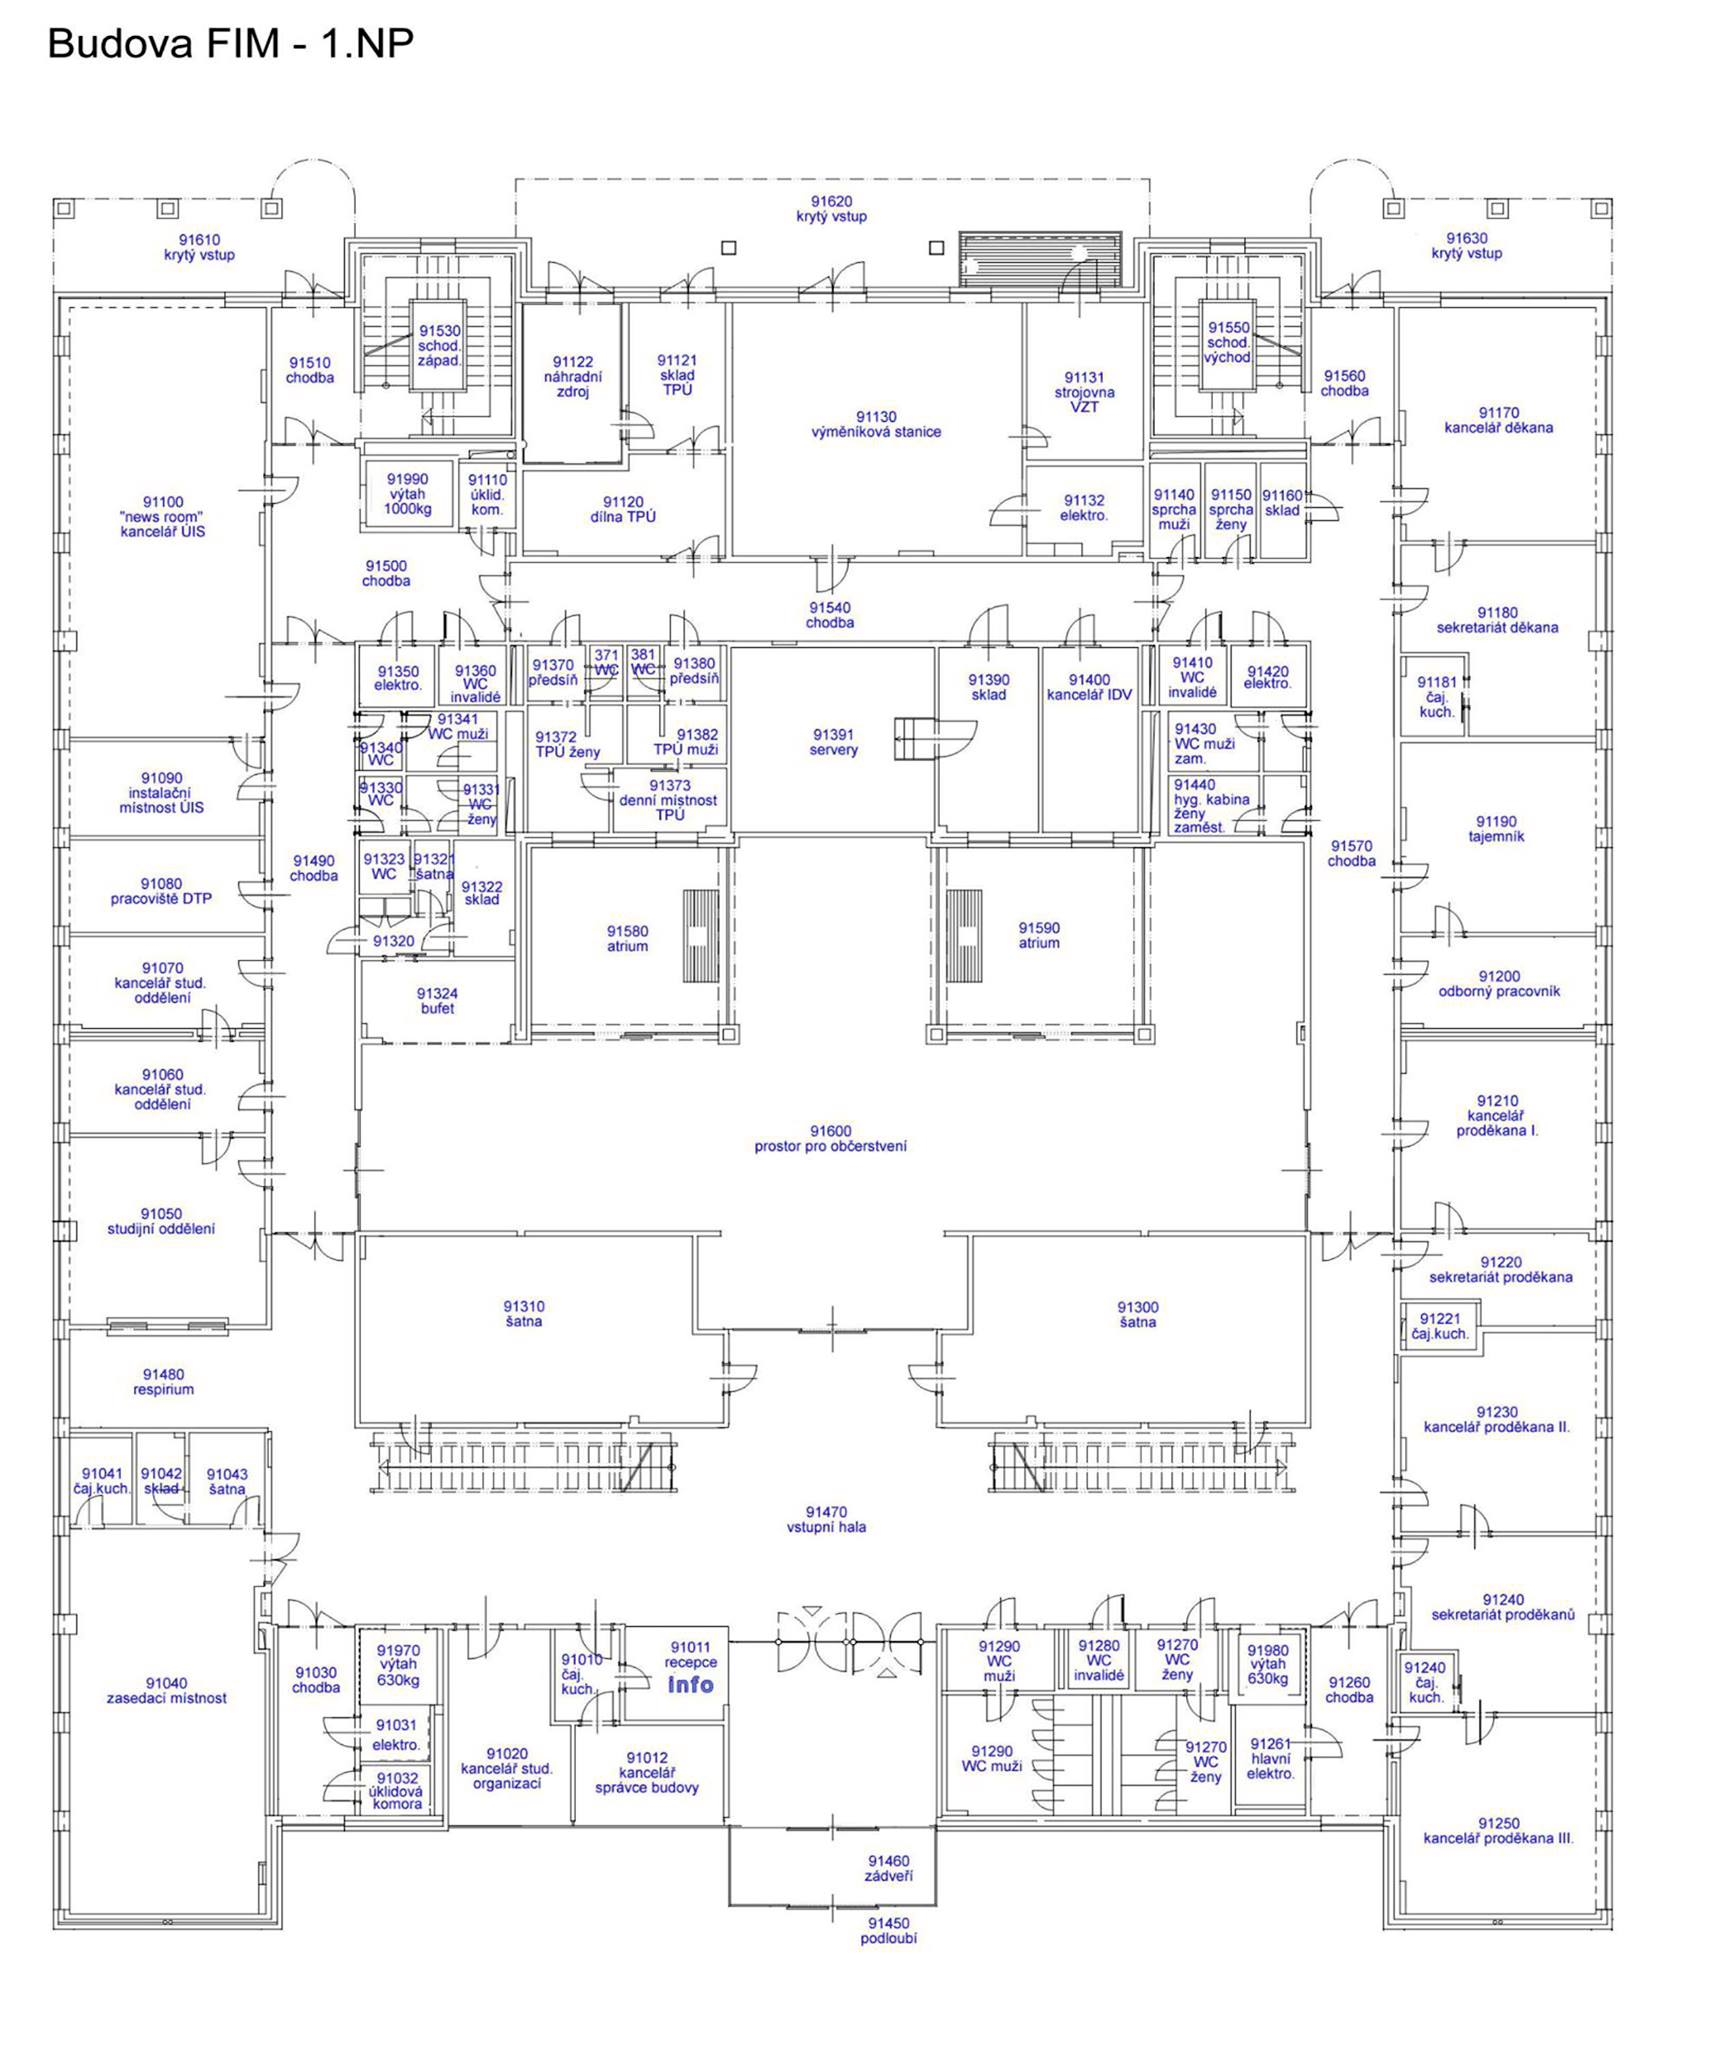
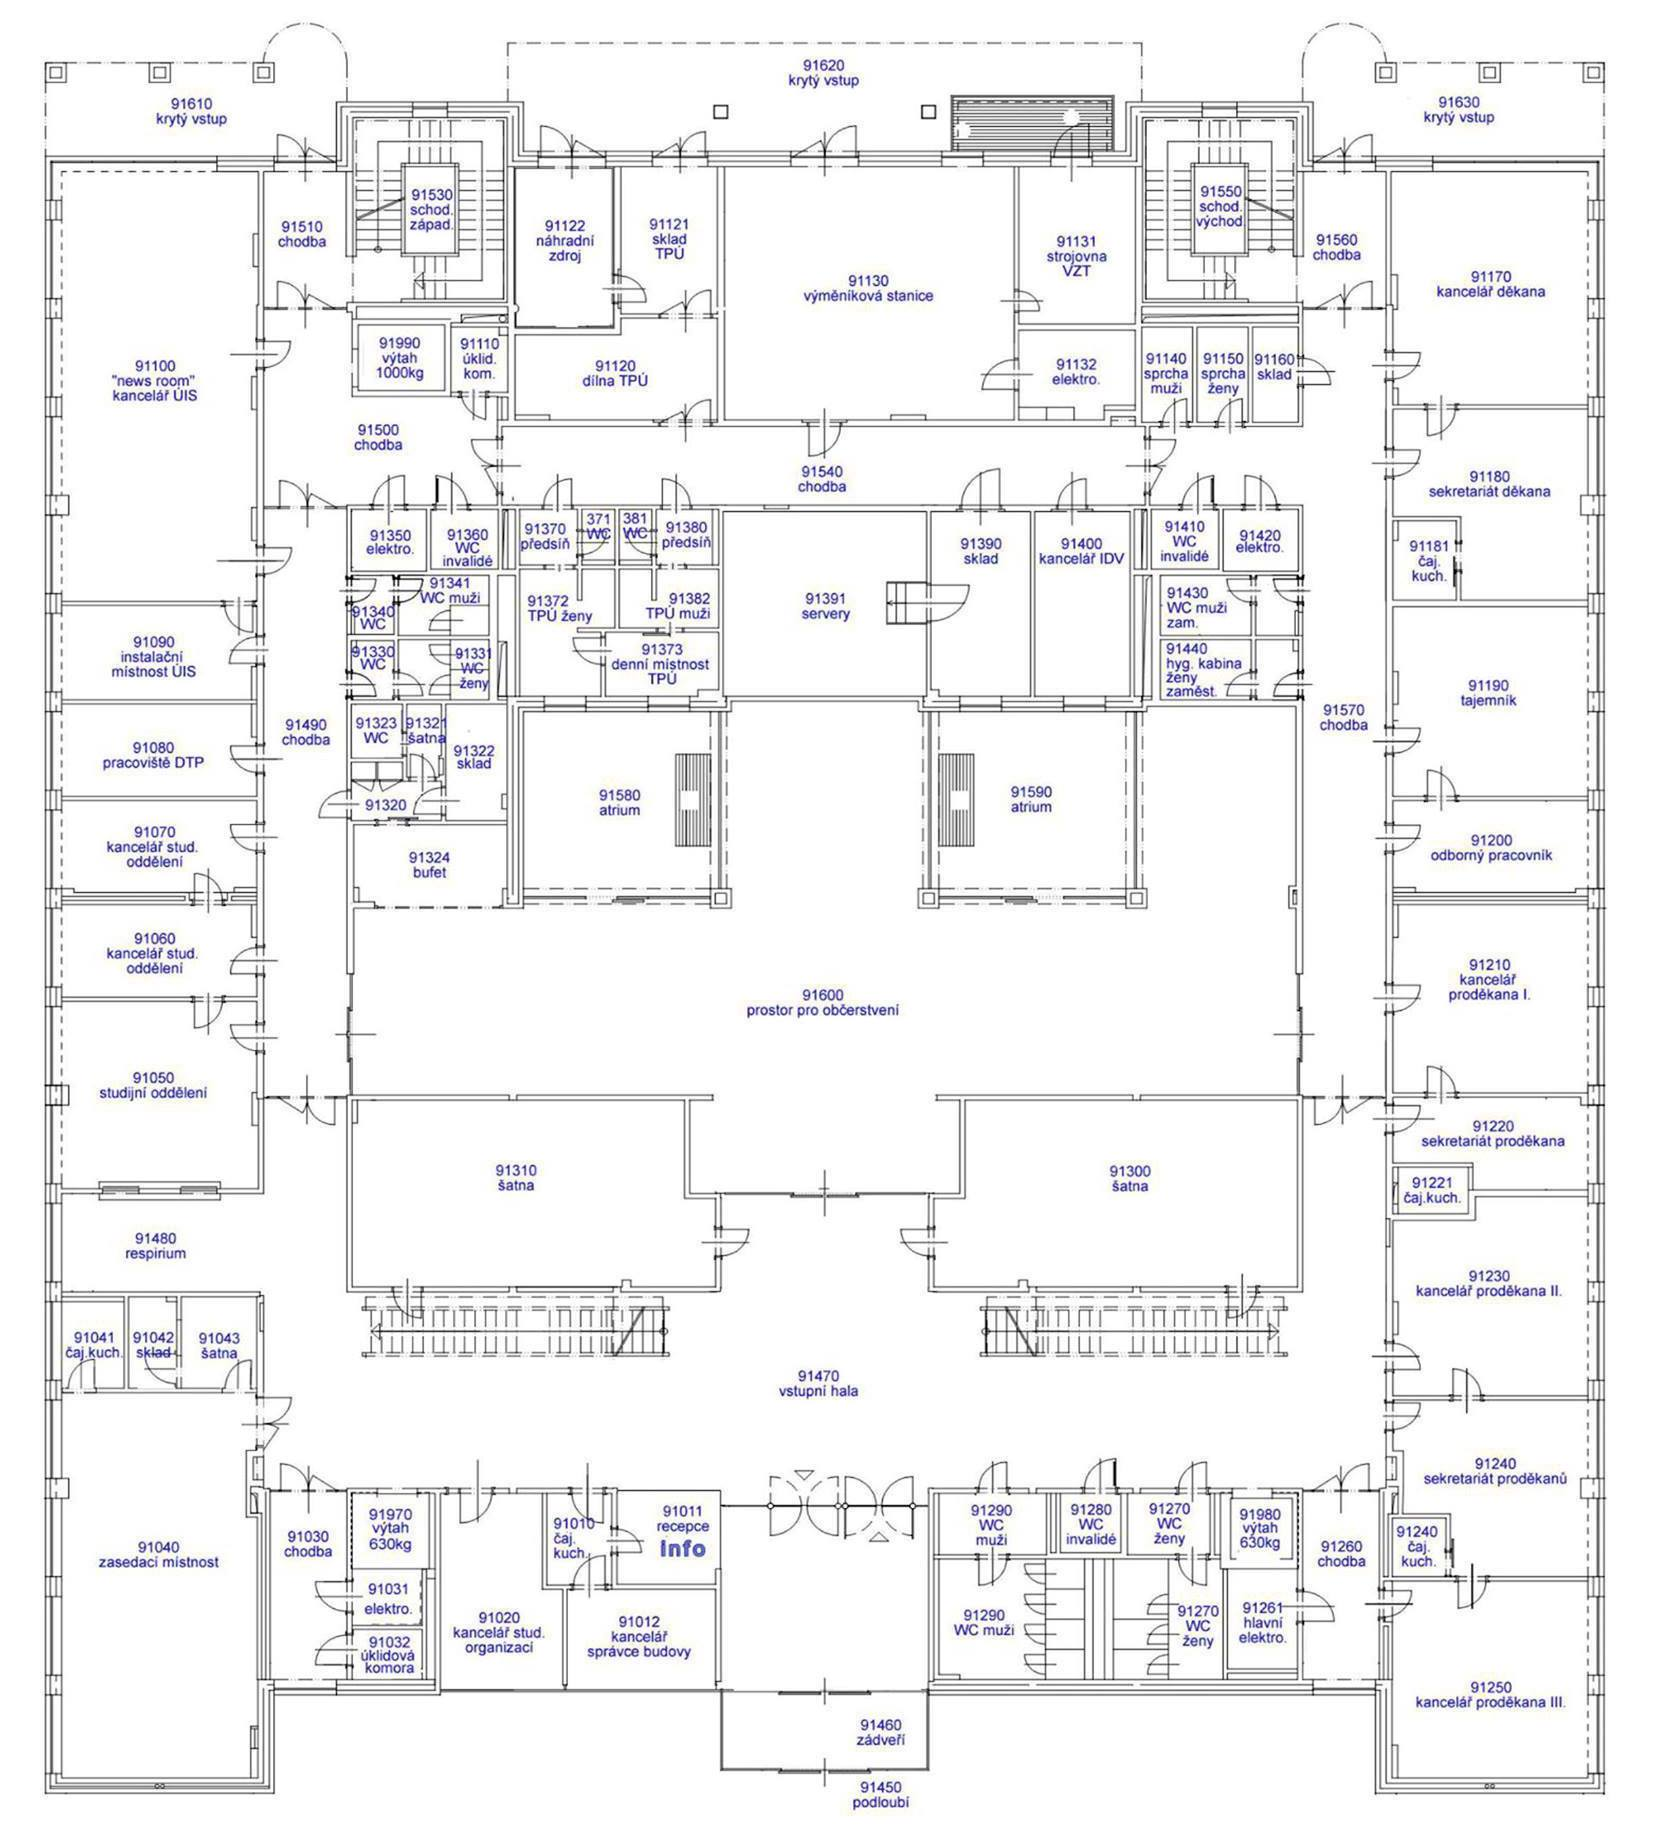
Added fragments, drawing into canvas

Changed region(s): [[0.0307, 0.0, 0.9831, 0.987], [0.4301, 0.5244, 0.5223, 0.586], [0.9524, 0.0308, 0.9831, 0.0617]]

diff --git a/src/main/webapp/templates/fragments/header.html b/src/main/webapp/templates/fragments/header.html
@@ -2,44 +2,36 @@
 <html lang="cs" xml:lang="cs" xmlns="http://www.w3.org/1999/xhtml" xmlns:th="http://www.thymeleaf.org"
       xmlns:sec="http://www.w3.org/1999/xhtml">
 
-<head>
+<head th:fragment="head">
     <meta http-equiv="Content-Type" content="text/html; charset=utf-8" />
     <script src="https://ajax.googleapis.com/ajax/libs/jquery/1.11.3/jquery.min.js"></script>
 	<link rel="stylesheet" href="../resources/bootstrap/css/bootstrap.min.css"
-		th:href="@{resources/bootstrap/css/bootstrap.min.css}"/>
+		th:href="@{/resources/bootstrap/css/bootstrap.min.css}"/>
 	<link rel="stylesheet" href="../resources/bootstrap/css/bootstrap-theme.min.css"
-		  th:href="@{resources/bootstrap/css/bootstrap-theme.min.css}"/>
+		  th:href="@{/resources/bootstrap/css/bootstrap-theme.min.css}"/>
 	<link rel="stylesheet" href="../resources/style.css"
-		  th:href="@{resources/style.css}"/>
+		  th:href="@{/resources/style.css}"/>
 	<script src="../resources/bootstrap/js/bootstrap.min.js"
-			th:src="@{resources/bootstrap/js/bootstrap.min.js}"></script>
-
-    <title th:text="#{login.header}">Přihlášení</title>
+			th:src="@{/resources/bootstrap/js/bootstrap.min.js}"></script>
     <meta name="viewport" content="width=device-width, initial-scale=1"/>
 </head>
-<th:block th:fragment="header">
+<th:block th:fragment="header(title)">
 	<nav class="navbar navbar-default navbar-fixed-top" role="navigation">
         <div class="container">
-            <div class="navbar-header">
-                <button type="button" class="navbar-toggle" data-toggle="collapse" data-target="#bs-example-navbar-collapse-1">
-                    <span class="sr-only">Toggle navigation</span>
-                    <span class="icon-bar"></span>
-                    <span class="icon-bar"></span>
-                    <span class="icon-bar"></span>
-                </button>
-                <a class="navbar-brand" href="home.html" th:href="@{/home}"><img src="/resources/img/logo.png" th:src="@{/resources/img/logo.png}" /></a>
+            <div class="navbar-header header">
+            	<h1 th:text="${title}">Nadpis</h1>
             </div>
-            <!-- Collect the nav links, forms, and other content for toggling -->
-            <div class="collapse navbar-collapse" id="bs-example-navbar-collapse-1">
+            <div>
                 <ul class="nav navbar-nav navbar-right RobotoBoldUP">
-                    <li sec:authorize="isAnonymous()">
-                        <a th:href="@{/login}"><i class="fa fa-user"></i>&nbsp;<span th:text="#{login}"></span></a>
-                    </li>
+                	<li sec:authorize="hasRole('ROLE_ADMIN')">
+						<a th:href="@{/administration}" th:text="#{administration.header}">Administrace</a>                	
+                	</li>
                     <li sec:authorize="isAuthenticated()">
-                        <a th:href="@{/logoutProcess}"><i class="fa fa-times"></i>&nbsp;<span th:text="#{logout}"></span></a>
+                        <a th:href="@{/logoutProcess}" th:text="#{login.logout}">Odhlásit</a>
                     </li>
                 </ul>
             </div>
         </div>
     </nav>
 </th:block>
+</html>

diff --git a/src/main/webapp/resources/js/drawing.js b/src/main/webapp/resources/js/drawing.js
@@ -1,3 +1,25 @@
+var canvas, context;
+
+function drawMap(){
+	canvas = document.getElementById("map");
+	ch = canvas.getAttribute("height");
+	cw = canvas.getAttribute("width");
+	
+	context = canvas.getContext("2d");
+	img = document.getElementById("imgsrc");
+	ih = img.getAttribute("height");
+	iw = img.getAttribute("width");
+	
+//	context.drawImage(img, 0, 0, cw, ch, 0, 0, iw, ih);
+	context.drawImage(img, 0, 0);
+	
+//	baseImage = new Image(500, 500);
+//	baseImage.src = "resources/img/J1NP.jpg";
+//	baseImage.onload = function(){
+//		context.drawImage(baseImage, 500, 500);
+//	};
+};
+
 //window.onload = function () {
 //	var map = document.getElementById("map");
 //	map.setAttribute('height', 500);
@@ -19,30 +41,30 @@
 //	ctx.fill();
 //}
 
-jQuery(document).ready(function() {
-  $('#map').attr('height', $('#map').css('height'));
-  $('#map').attr('width', $('#map').css('width'));
-
-  $("#map").click(function(e) {
-
-    var x = e.clientX - this.offsetLeft - this.scrollLeft;
-    var y = e.clientY - this.offsetTop - this.scrollTop;
-//	  var x = e.pageX;
-//	  var y = e.pageY;
-    
-    //var pole = [];
-    //pole.push[{
-
-    var ctx = this.getContext("2d");
-    ctx.beginPath();
-    ctx.arc(x, y, 10, 0, 2 * Math.PI);
-    ctx.stroke();
-    
-    //json object vratit
-    //musi se jmenovat stejne
-  });
-  
-  //na kliknuti na odkaz mapy zobrazit konkretni patro 
-  
-  //podivat se na metodu drawImage()
-})
+//jQuery(document).ready(function() {
+//  $('#map').attr('height', $('#map').css('height'));
+//  $('#map').attr('width', $('#map').css('width'));
+//
+//  $("#map").click(function(e) {
+//
+//    var x = e.clientX - this.offsetLeft - this.scrollLeft;
+//    var y = e.clientY - this.offsetTop - this.scrollTop;
+////	  var x = e.pageX;
+////	  var y = e.pageY;
+//    
+//    //var pole = [];
+//    //pole.push[{
+//
+//    var ctx = this.getContext("2d");
+//    ctx.beginPath();
+//    ctx.arc(x, y, 10, 0, 2 * Math.PI);
+//    ctx.stroke();
+//    
+//    //json object vratit
+//    //musi se jmenovat stejne
+//  });
+//  
+//  //na kliknuti na odkaz mapy zobrazit konkretni patro 
+//  
+//  //podivat se na metodu drawImage()
+//})

diff --git a/src/main/webapp/templates/administration.html b/src/main/webapp/templates/administration.html
@@ -2,22 +2,13 @@
 <html xmlns="http://www.w3.org/1999/xhtml"
       xmlns:th="http://www.thymeleaf.org">
 <head>
-    <script src="https://ajax.googleapis.com/ajax/libs/jquery/1.11.3/jquery.min.js"></script>
-	<link rel="stylesheet" href="/resources/bootstrap/css/bootstrap.min.css"
-		th:href="@{/resources/bootstrap/css/bootstrap.min.css}"/>
-	<link rel="stylesheet" href="/resources/bootstrap/css/bootstrap-theme.min.css"
-		  th:href="@{/resources/bootstrap/css/bootstrap-theme.min.css}"/>
-	<link rel="stylesheet" href="/resources/style.css"
-		  th:href="@{/resources/style.css}"/>
+	<object th:include="fragments/header :: head"></object>
 	<script src="/resources/js/drawing.js" th:src="@{/resources/js/drawing.js}"></script>
-
     <title th:text="#{administration.header}">Administrace</title>
-    <meta name="viewport" content="width=device-width, initial-scale=1"/>
 </head>
-<body>
+<body onload="drawMap()">
+	<div th:include="fragments/header :: header(#{administration.header})"></div>
 	<div class="container">
-		<h1 th:text="#{administration.header}">Administrace</h1>
-		
 		<div class="row">
 			<div class="col-sm-3 col-sm-offset-1">
 				<h2 th:text="#{administration.maps}">Mapy</h2>
@@ -38,13 +29,13 @@
 				
 				<h2 th:text="#{administration.materials.add}">Přidat suroviny</h2>
 				<select name="material" class="form-control" style="width: 50%;">
-					<option th:each="material : ${T(cz.hanusova.fingerprintgame.domain.Material).values()}" value="${material}" th:text="#{${material.key}}"></option>
+					<option th:each="material : ${T(cz.hanusova.fingerprintgame.model.Material).values()}" value="${material}" th:text="#{${material.key}}"></option>
 				</select>
 			</div>
 			<div class="col-sm-8">
 				<h2 th:text="#{overview.floor.map(${floor})}">Mapa vybraného patra</h2>
-				<img src="../resources/img/J1NP.jpg" th:src="@{${imgsrc}}" alt="Mapa patra"/>
-				<canvas id="map"></canvas>
+				<img id="imgsrc" src="../resources/img/J1NP.jpg" th:src="@{${imgsrc}}" alt="Mapa patra" hidden="true" width="500" height="500"/>
+				<canvas id="map" height="5000" width="2000"></canvas>
 			</div>
 		</div>
 	</div>

diff --git a/src/main/webapp/templates/overview.html b/src/main/webapp/templates/overview.html
@@ -1,24 +1,12 @@
 <!DOCTYPE html>
 <html xmlns="http://www.w3.org/1999/xhtml"
       xmlns:th="http://www.thymeleaf.org">
-<head>
-    <script src="https://ajax.googleapis.com/ajax/libs/jquery/1.11.3/jquery.min.js"></script>
-	<link rel="stylesheet" href="/resources/bootstrap/css/bootstrap.min.css"
-		th:href="@{/resources/bootstrap/css/bootstrap.min.css}"/>
-	<link rel="stylesheet" href="/resources/bootstrap/css/bootstrap-theme.min.css"
-		  th:href="@{/resources/bootstrap/css/bootstrap-theme.min.css}"/>
-	<link rel="stylesheet" href="/resources/style.css"
-		  th:href="@{/resources/style.css}"/>
-	<script src="/resources/bootstrap/js/bootstrap.min.js"
-			th:src="@{/resources/bootstrap/js/bootstrap.min.js}"></script>
-
+<head th:include="fragments/header :: head">
     <title th:text="#{overview.header}">Přehled</title>
-    <meta name="viewport" content="width=device-width, initial-scale=1"/>
 </head>
 <body>
 	<div class="container">
-		<h1 th:text="#{overview.header}">Přehled</h1>
-		
+		<div th:include="fragments/header :: header(#{overview.header})"></div>
 		<div class="row">
 			<div class="col-sm-3 col-sm-offset-1">
 				<h2 th:text="#{overview.maps}">Mapy</h2>

diff --git a/src/main/webapp/resources/style.css b/src/main/webapp/resources/style.css
@@ -24,8 +24,17 @@ h1{
 	margin-bottom: 20px;
 }
 
-#map{
-	width: 500px;
-	height: 500px;
-	border:1px ridge black;
+.container:after {
+  content:"";
+  display:block;
+  clear:both;
 }
+
+.header{
+	margin-left: 50px;
+}
+
+body{
+	padding-top: 100px;
+}
+
